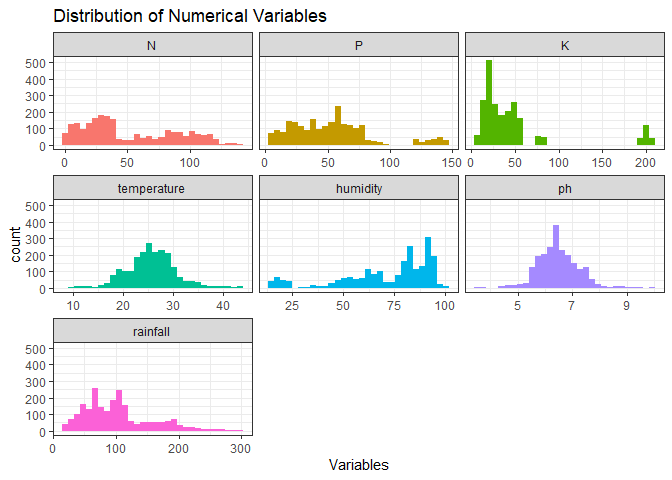
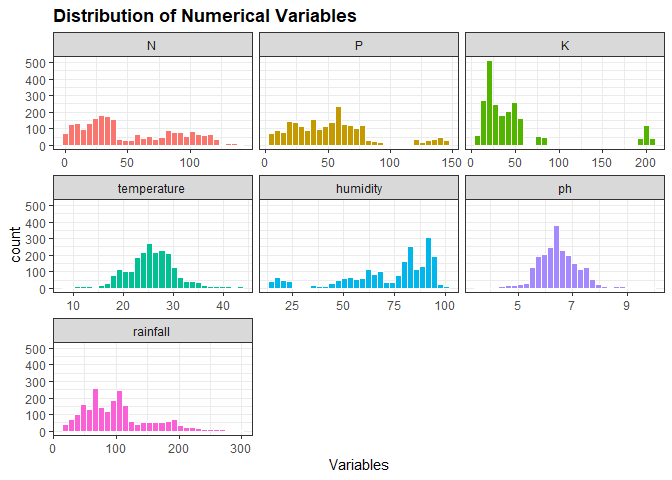
complte eda

diff --git a/crop.md b/crop.md
@@ -3,21 +3,22 @@ crop
 Kar
 2021
 
--   [1 R PACKAGES LOADED](#1-r-packages-loaded)
+-   [1 R PACKAGES](#1-r-packages)
 -   [2 INTRODUCTION](#2-introduction)
 -   [3 DATA IMPORT AND CLEANING](#3-data-import-and-cleaning)
     -   [3.1 Data import](#31-data-import)
     -   [3.2 Data exploration](#32-data-exploration)
     -   [3.3 Data manipulation](#33-data-manipulation)
 -   [4 Exploratory Data Analysis](#4-exploratory-data-analysis)
-    -   [4.1 Histograms for Numerical
-        Variables](#41-histograms-for-numerical-variables)
-    -   [4.2 Correlation graphs](#42-correlation-graphs)
+    -   [4.1 Histograms](#41-histograms)
+    -   [4.2 Correlogram](#42-correlogram)
+    -   [4.3 Scatter plot](#43-scatter-plot)
+    -   [4.4 Boxplots](#44-boxplots)
 -   [5 Model Building](#5-model-building)
 -   [6 Model for Production](#6-model-for-production)
 -   [Conclusion](#conclusion)
 
-# 1 R PACKAGES LOADED
+# 1 R PACKAGES
 
 ``` r
 library(tidyverse)
@@ -45,6 +46,12 @@ library(kableExtra)
     ## The following object is masked from 'package:dplyr':
     ## 
     ##     group_rows
+
+``` r
+library(corrplot)
+```
+
+    ## corrplot 0.90 loaded
 
 # 2 INTRODUCTION
 
@@ -686,7 +693,7 @@ summary(crop2)
 
 # 4 Exploratory Data Analysis
 
-## 4.1 Histograms for Numerical Variables
+## 4.1 Histograms
 
 It will be interesting to visualise the distribution of each numerical
 variables in the data set as a initial examination.
@@ -706,22 +713,18 @@ df4.1 <- crop2 %>%
                                                      "ph",
                                                      "rainfall"))) 
 
-levels(df4.1$variables)
-```
 
-    ## [1] "N"           "P"           "K"           "temperature" "humidity"   
-    ## [6] "ph"          "rainfall"
 
-``` r
 # plot
 
 ggplot(df4.1, aes(x = result, fill = variables)) +
-  geom_histogram() +
+  geom_histogram(colour = "white") +
   facet_wrap(~variables, scales = "free_x") +
   labs(x = "Variables",
        title = "Distribution of Numerical Variables") +
   theme_bw() +
-  theme(legend.position = "none") 
+  theme(legend.position = "none",
+        plot.title = element_text(face = "bold")) 
 ```
 
     ## `stat_bin()` using `bins = 30`. Pick better value with `binwidth`.
@@ -740,9 +743,87 @@ ggplot(df4.1, aes(x = result, fill = variables)) +
 
 -   pH and in soil are most slightly acidic with a value around 6.
 
--   
+-   Rainfalls in this entire dataset are less than 300mm, with majority
+    fall between 50 - 120mm.
 
-## 4.2 Correlation graphs
+## 4.2 Correlogram
+
+Following correlogram (a plot for correlation) shows that variables are
+independent from each other except P and K.
+
+There is a strong relationship between P and K with a correlation of
+0.74. It might be an issue during model building however VIF will be
+checked again in that section to avoid multicollinearity. Though a
+correlation less than 0.8 between two variables should be indicating
+that multicollinearity might not exist, but VIF will be computed.
+
+``` r
+# convert into matrix, remove the factor "label" 
+
+cor_c <- cor(crop2[, 1:7])
+
+# correlogram
+
+corrplot(cor_c, method = "number", type = "upper")
+```
+
+![](crop_files/figure-gfm/unnamed-chunk-11-1.png)<!-- -->
+
+## 4.3 Scatter plot
+
+Plotting the relationship between P and K.
+
+``` r
+ggplot(crop2, aes(x = P, y = K, colour = label)) +
+  geom_point(alpha = 0.5) +
+  theme_bw() +
+  labs(title = "Positive Relationship betweem P and K") 
+```
+
+![](crop_files/figure-gfm/unnamed-chunk-12-1.png)<!-- --> From the
+graph, there might be a positive relationship between K and P, however
+the high value of correlation 0.74 might be due to the type to crops and
+especially the crop groups near 150.
+
+## 4.4 Boxplots
+
+This section uses boxplot to simultaneously compare the 7 numerical
+variables among different crops stored within the vector, “label”.
+Recall, the 7 numerical variables are:
+
+``` r
+names(crop2[1:7])
+```
+
+    ## [1] "N"           "P"           "K"           "temperature" "humidity"   
+    ## [6] "ph"          "rainfall"
+
+``` r
+# set up data frame
+
+df4.3 <- crop2 %>% 
+  pivot_longer(c(1:7),
+               values_to = "result",
+               names_to = "variables") %>% 
+  mutate(variables = factor(variables, levels = c("N",
+                                                     "P",
+                                                     "K",
+                                                     "temperature",
+                                                     "humidity",
+                                                     "ph",
+                                                     "rainfall"))) 
+
+# plot boxplots
+
+ggplot(df4.3, aes(x = label, y = result, colour = label)) +
+  geom_boxplot() +
+  facet_wrap(~variables, scale = "free", ncol =1) +
+  theme_bw() +
+  theme(legend.position = "none",
+        axis.text.x = element_text(angle = 90, hjust = 1, vjust = 0.2))
+```
+
+![](crop_files/figure-gfm/unnamed-chunk-14-1.png)<!-- -->
 
 # 5 Model Building
 
